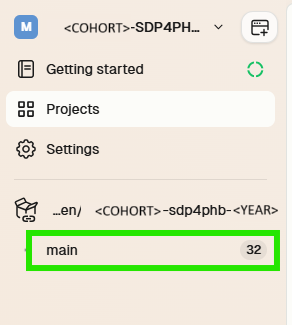
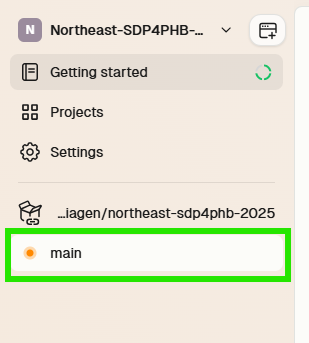
update exercise 2, including screenshots

diff --git a/exercises/exercise02.md b/exercises/exercise02.md
@@ -5,7 +5,7 @@
 1. Access your dev environment through GitPod:
     - Navigate to https://app.gitpod.io/
         - If needed, select "Continue with GitHub", authorize Gitpod to access your GitHub account, and sign in with your credentials
-    - In the `<COHORT>`-SDP4PHB-`<YEAR>` organization, select the existing environment at the bottom of the right-side column
+    - In the Northeast-SDP4PHB-2025 the existing environment at the bottom of the right-side column
     - Restart the environment
     - Click on the "Open with VS Code" button
 
